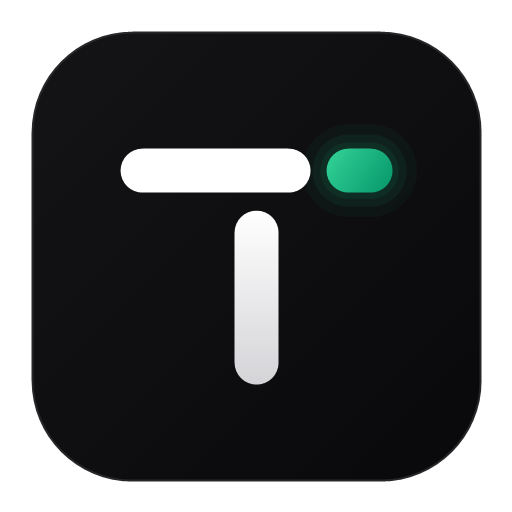
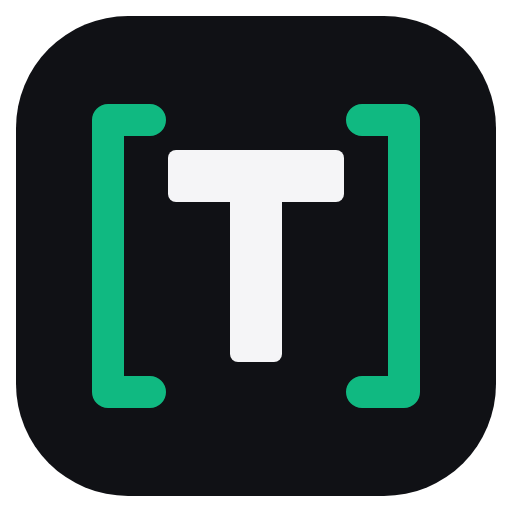
Typeset 1.0.15: Hark UI polish merge, save-toast position fix
- Full-width title bar with bracket T logo (new app icon assets)
- Save confirmations lift above the dirty bar via state class
- Actionable error copy, light theme alignment
- Kept 1.0.14 logic: toast variants and timers, Notify gating,
  badge switcher, key handling, contrast, backup flow

Changed region(s): [[0.1562, 0.1875, 0.8438, 0.8125], [0.0312, 0.0312, 0.9688, 0.9688]]

diff --git a/ui/index.html b/ui/index.html
@@ -61,10 +61,13 @@
 
   .app-window {
     width: 100%; height: 100vh;
-    display: flex; flex-direction: row;
+    display: flex; flex-direction: column;
     background: var(--bg);
     overflow: hidden;
   }
+
+  /* Body di bawah title bar: rail + kolom utama */
+  .app-body { flex: 1; min-height: 0; display: flex; flex-direction: row; }
 
   /* Rail kiri */
   .side-rail {
@@ -104,12 +107,14 @@
 
   .app-header {
     display: flex; align-items: center; justify-content: space-between;
-    padding: 4px 2px 2px;
+    height: 40px; padding: 0 8px 0 21px;
+    background: var(--panel2);
+    border-bottom: 1px solid var(--border);
     flex-shrink: 0;
     -webkit-user-select: none; user-select: none;
   }
   .brand { display: flex; align-items: center; gap: 8px; }
-  .brand-logo { width: 16px; height: 16px; border-radius: 4px; flex-shrink: 0; }
+  .brand-logo { width: 18px; height: 18px; border-radius: 4px; flex-shrink: 0; }
   .brand-title { font-size: 13px; font-weight: 600; letter-spacing: -0.01em; }
   .win-btns { display: flex; align-items: center; gap: 2px; }
   .win-btn {
@@ -126,12 +131,9 @@
     background: rgba(52, 211, 153, 0.12);
     border: 1px solid rgba(52, 211, 153, 0.35);
     border-radius: 9999px;
-    font-size: 11.5px; font-weight: 600; font-family: var(--sans);
+    font-size: 11.5px; font-weight: 600;
     color: #6EE7B7;
-    cursor: pointer;
   }
-  .active-badge:hover { background: rgba(52, 211, 153, 0.2); }
-  button.active-badge { appearance: none; -webkit-appearance: none; }
 
   .page-title { font-size: 20px; font-weight: 700; letter-spacing: -0.015em; line-height: 1.2; }
   .page-sub { font-size: 11px; color: var(--muted); margin-top: 1px; }
@@ -169,7 +171,7 @@
   .row + .row { border-top: 1px solid var(--border); }
   .row-label { display: flex; align-items: center; gap: 10px; min-width: 0; }
   .row-name { font-size: 12px; font-weight: 500; white-space: nowrap; }
-  .row.off .ctl { opacity: 0.4; pointer-events: none; }
+  .row.off .ctl { opacity: 0.35; pointer-events: none; }
   .row.off .row-name { color: var(--muted); }
   .ctl { display: flex; align-items: center; gap: 6px; }
 
@@ -341,7 +343,7 @@
     box-shadow: 0 2px 8px rgba(0, 0, 0, 0.25);
   }
   body.light .preview-paper { border: 1px solid var(--border2); box-shadow: 0 2px 8px rgba(0,0,0,.1); }
-  .preview-meta { font-size: 10px; color: var(--subtle); text-align: right; padding: 0 14px; margin-top: -2px; }
+  .preview-meta { font-size: 11px; color: var(--subtle); text-align: right; padding: 0 14px; margin-top: -2px; }
   .preview-text { width: 100%; word-break: break-word; }
 
   .tab-content { display: flex; flex-direction: column; gap: 8px; min-height: 0; }
@@ -349,26 +351,28 @@
   /* Toast + dirty bar + popover */
   .toast {
     position: fixed; bottom: 18px; left: 50%;
-    transform: translateX(-50%) translateY(80px); opacity: 0;
+    transform: translateX(-50%) translateY(12px); opacity: 0;
     display: inline-flex; align-items: center; gap: 8px;
-    background: #141416;
-    color: #f5f5f7;
-    border: 1px solid rgba(255, 255, 255, 0.08);
-    padding: 7px 16px; border-radius: 10px;
-    font-size: 12px; font-weight: 500; font-family: var(--sans);
-    box-shadow: 0 4px 6px -1px rgba(0, 0, 0, 0.5), 0 10px 24px -3px rgba(0, 0, 0, 0.7);
-    transition: opacity 0.25s ease, transform 0.25s ease; pointer-events: none; z-index: 100;
-    white-space: nowrap;
+    background: #141416; color: #f5f5f7;
+    border: 1px solid rgba(255, 255, 255, 0.10);
+    padding: 8px 16px 8px 14px; border-radius: 9999px;
+    font-size: 12px; font-weight: 600; font-family: var(--sans);
+    box-shadow: 0 12px 30px rgba(0, 0, 0, 0.45);
+    transition: opacity 0.18s ease, transform 0.18s ease, bottom 0.22s ease;
+    pointer-events: none; z-index: 100; white-space: nowrap;
   }
   .toast::before {
-    content: "";
-    width: 7px; height: 7px; border-radius: 50%;
+    content: ""; width: 7px; height: 7px; border-radius: 50%;
     background: var(--accent); flex-shrink: 0;
   }
-  .toast[data-kind="error"]::before { background: var(--danger); }
-  .toast[data-kind="info"]::before { background: var(--muted); }
+  .toast[data-kind="error"]::before { background: #f87171; }
+  .toast[data-kind="info"]::before { background: #a1a1aa; }
   body.light .toast { background: #1d1d1f; color: #fff; }
   .toast.show { opacity: 1; transform: translateX(-50%) translateY(0); }
+  .toast.lift { bottom: 64px; }
+  .kbd { font-family: var(--mono); font-size: 10px; color: var(--muted); border: 1px solid var(--border2); border-radius: 4px; padding: 0 4px; margin-left: 4px; }
+  body.light .btn-primary .kbd { color: #c7c7cc; border-color: #3a3a40; }
+  .btn-primary .kbd { color: #6e6e73; border-color: #c7c7cc; }
 
   .dirty-bar {
     position: absolute; bottom: 10px; left: 50%;
@@ -549,6 +553,18 @@
 <body>
 
 <main class="app-window" aria-label="Typeset Window">
+  <header class="app-header" id="appHeader" title="Drag to move">
+    <div class="brand">
+      <svg class="brand-logo" viewBox="0 0 512 512" aria-hidden="true"><rect x="16" y="16" width="480" height="480" rx="112" fill="#101115"/><path d="M150 120 H108 V392 H150 M362 120 H404 V392 H362" fill="none" stroke="#10b981" stroke-width="32" stroke-linejoin="round" stroke-linecap="round"/><rect x="168" y="150" width="176" height="52" rx="8" fill="#f5f5f7"/><rect x="230" y="150" width="52" height="212" rx="8" fill="#f5f5f7"/></svg>
+      <span class="brand-title">Typeset</span>
+      <span class="active-badge" id="badgeActivePreset"><svg width="13" height="13" viewBox="0 0 24 24" style="color:#6EE7B7;flex-shrink:0;" fill="currentColor"><polygon points="13 2 3 14 12 14 11 22 21 10 12 10 13 2"></polygon></svg><span>ACTIVE: <strong id="lblActivePreset">Laprak</strong></span></span>
+    </div>
+    <div class="win-btns">
+      <button type="button" class="win-btn" onclick="winMin()" title="Minimize" aria-label="Minimize"><svg viewBox="0 0 12 12" fill="none" stroke="currentColor" stroke-width="1.5" stroke-linecap="round"><line x1="1.5" y1="6" x2="10.5" y2="6"/></svg></button>
+      <button type="button" class="win-btn close" onclick="winClose()" title="Close" aria-label="Close"><svg viewBox="0 0 12 12" fill="none" stroke="currentColor" stroke-width="1.5" stroke-linecap="round"><line x1="2" y1="2" x2="10" y2="10"/><line x1="10" y1="2" x2="2" y2="10"/></svg></button>
+    </div>
+  </header>
+  <div class="app-body">
   <aside class="side-rail" aria-label="Navigation">
     <div class="rail-group">
       <button id="railBtnText" type="button" class="rail-btn active" onclick="switchTab('text')" title="Format Text" aria-label="Format Text" aria-selected="true">Aa</button>
@@ -565,17 +581,6 @@
   </aside>
 
   <div class="main-col">
-    <header class="app-header" id="appHeader" title="Drag to move">
-      <div class="brand">
-        <svg class="brand-logo" viewBox="0 0 512 512" aria-hidden="true"><rect x="32" y="32" width="448" height="448" rx="100" fill="#101115"/><rect x="120" y="148" width="190" height="44" rx="22" fill="#f5f5f7"/><rect x="326" y="148" width="66" height="44" rx="22" fill="#10b981"/><rect x="234" y="210" width="44" height="174" rx="22" fill="#d4d4d8"/></svg>
-        <span class="brand-title">Typeset</span>
-        <button type="button" class="active-badge" id="badgeActivePreset" onclick="openSwitcher()" title="Select preset (Win+Shift+F)"><svg width="13" height="13" viewBox="0 0 24 24" style="color:#6EE7B7;flex-shrink:0;" fill="currentColor"><polygon points="13 2 3 14 12 14 11 22 21 10 12 10 13 2"></polygon></svg><span>ACTIVE: <strong id="lblActivePreset">Laprak</strong></span></button>
-      </div>
-      <div class="win-btns">
-        <button type="button" class="win-btn" onclick="winMin()" title="Minimize" aria-label="Minimize"><svg viewBox="0 0 12 12" fill="none" stroke="currentColor" stroke-width="1.5" stroke-linecap="round"><line x1="1.5" y1="6" x2="10.5" y2="6"/></svg></button>
-        <button type="button" class="win-btn close" onclick="winClose()" title="Close" aria-label="Close"><svg viewBox="0 0 12 12" fill="none" stroke="currentColor" stroke-width="1.5" stroke-linecap="round"><line x1="2" y1="2" x2="10" y2="10"/><line x1="10" y1="2" x2="2" y2="10"/></svg></button>
-      </div>
-    </header>
 
     <div class="preset-card">
       <div class="preset-row" id="presetRowView">
@@ -854,13 +859,13 @@
       <div class="app-ver" id="appVer">Typeset v1.0.0 &bull; <button type="button" onclick="openChangelog()" title="View release notes on GitHub">View Changelog</button> &bull; <button type="button" onclick="manualCheck()" title="Check for updates now">Check for updates</button></div>
     </section>
 
-    <div id="toast" class="toast" role="status" aria-live="polite"><span id="toastMsg">Saved</span></div>
+    <div id="toast" class="toast" role="status" aria-live="polite"><span id="toastMsg"></span></div>
 
     <div id="dirtyBar" class="dirty-bar">
       <span class="dot"></span>
       <span>Unsaved changes</span>
-      <button type="button" class="btn btn-primary" onclick="saveCurrentPreset()" title="Save (Ctrl+S)">Save <kbd style="font-family:var(--mono); font-size:9px; opacity:0.7;">Ctrl+S</kbd></button>
-      <button type="button" class="btn" onclick="revertChanges()">Revert</button>
+      <button type="button" class="btn btn-primary" onclick="saveCurrentPreset()" title="Save (Ctrl+S)">Save<span class="kbd">Ctrl S</span></button>
+      <button type="button" class="btn" onclick="revertChanges()" title="Revert (Esc)">Revert<span class="kbd">Esc</span></button>
     </div>
 
     <div class="popover hidden" id="fontPop">
@@ -888,6 +893,7 @@
     </div>
 
   </div>
+</div>
 </main>
 
 <datalist id="fontList">
@@ -1178,10 +1184,7 @@ function dirtyPresetName() {
   return null;
 }
 function refreshDirty() {
-  var dirty = dirtyPresetName() !== null;
-  $('dirtyBar').classList.toggle('show', dirty);
-  var tst = $('toast');
-  if (tst) tst.style.bottom = dirty ? '70px' : '';
+  $('dirtyBar').classList.toggle('show', dirtyPresetName() !== null);
 }
 
 /* ---------- host bridge ---------- */
@@ -1193,14 +1196,18 @@ function sendToHost(payload) {
   document.title = 'AHK_MSG:' + JSON.stringify(payload) + '|~TS~|' + Date.now();
 }
 
+var toastTimer = null;
 function showToast(text, kind) {
-  $('toastMsg').innerText = text;
+  kind = kind || 'ok';
   var t = $('toast');
-  t.dataset.kind = kind || 'ok';
-  t.setAttribute('role', (kind === 'error') ? 'alert' : 'status');
+  $('toastMsg').innerText = text;
+  t.dataset.kind = kind;
+  t.setAttribute('role', kind === 'error' ? 'alert' : 'status');
+  var db = $('dirtyBar');
+  t.classList.toggle('lift', !!(db && db.classList.contains('show')));
   t.classList.add('show');
-  try { clearTimeout(t._timer); } catch (e) {}
-  t._timer = setTimeout(function() { t.classList.remove('show'); }, (kind === 'error') ? 3500 : 1800);
+  clearTimeout(toastTimer);
+  toastTimer = setTimeout(function() { t.classList.remove('show'); }, kind === 'error' ? 3500 : 1800);
 }
 
 /* ---------- tabs ---------- */
@@ -1806,7 +1813,7 @@ function saveCurrentPreset() {
   }
   commitCaptionInputs();
   snapshot(name);
-  $('dirtyBar').classList.remove('show');
+  refreshDirty();
   showToast('Preset "' + name + '" saved!');
   sendToHost({ action: 'savePreset', name: name, data: packPreset(name) });
 }
@@ -2264,13 +2271,6 @@ function finishRec(display, arrow) {
 /* ---------- global keys ---------- */
 
 document.addEventListener('keydown', function(e) {
-  if ((e.key === 's' || e.key === 'S') && (e.ctrlKey || e.metaKey) && !e.altKey) {
-    if (dirtyPresetName() !== null) {
-      e.preventDefault();
-      saveCurrentPreset();
-      return;
-    }
-  }
   if (e.key === 'Escape') {
     if (!$('palPop').classList.contains('hidden')) { closePalette(false); return; }
     if (!$('fontPop').classList.contains('hidden')) { closeFontPop(); return; }
@@ -2278,15 +2278,13 @@ document.addEventListener('keydown', function(e) {
     if (!$('resetPop').classList.contains('hidden')) { hideResetPop(); return; }
     if (!$('presetEditor').classList.contains('hidden')) { cancelAddPreset(); return; }
     if (recId) { stopRec(); return; }
-    if (!$('switchPop').classList.contains('hidden')) { hideSwitchPop(); return; }
-    if (dirtyPresetName() !== null) { revertChanges(); return; }
   }
   if (recId) {
     e.preventDefault();
     e.stopPropagation();
     var r = eventToDisplay(e, recId);
-    if (r.error) { showToast(r.error, 'error'); return; }
-    if (recId === 'heading' && !r.arrow) { showToast('Heading requires an arrow key', 'error'); return; }
+    if (r.error) { showToast(r.error); return; }
+    if (recId === 'heading' && !r.arrow) { showToast('Heading requires an arrow key'); return; }
     finishRec(r.display, r.arrow);
     return;
   }
@@ -2421,11 +2419,21 @@ function titlebarDrag(e) {
 
 function winMin() { sendToHost({ action: 'winMin' }); }
 function winClose() { sendToHost({ action: 'winClose' }); }
-function openSwitcher() { sendToHost({ action: 'openSwitcher' }); }
+
+document.addEventListener('keydown', function(e) {
+  var db = $('dirtyBar');
+  if (!db || !db.classList.contains('show')) return;
+  if ((e.ctrlKey || e.metaKey) && (e.key === 's' || e.key === 'S')) { e.preventDefault(); saveCurrentPreset(); }
+  else if (e.key === 'Escape' && !document.querySelector('.popover:not(.hidden)') && document.activeElement.tagName !== 'INPUT') { revertChanges(); }
+});
+
+function openSwitcherFromBadge(e) { e.stopPropagation(); sendToHost({ action: 'openSwitcher' }); }
 
 function wireTitlebar() {
   var h = $('appHeader');
   if (h) h.addEventListener('mousedown', titlebarDrag);
+  var b = $('badgeActivePreset');
+  if (b) { b.addEventListener('mousedown', function(e){ e.stopPropagation(); }); b.addEventListener('click', openSwitcherFromBadge); b.title = 'Switch preset (Win+Shift+F)'; b.style.cursor = 'pointer'; }
 }
 
 window.addEventListener('DOMContentLoaded', function() {
@@ -2498,7 +2506,6 @@ window.openChangelog = openChangelog;
 window.manualCheck = manualCheck;
 window.winMin = winMin;
 window.winClose = winClose;
-window.openSwitcher = openSwitcher;
 window.renderUpdate = renderUpdate;
 
 /* ---------- switch guard popover ---------- */

diff --git a/ui/data.js b/ui/data.js
@@ -1,8 +1,8 @@
 // Auto-generated configuration data from typeset.ini
 window.initialData = {
-  activePreset: "Kode Sisipan",
+  activePreset: "Laprak",
   theme: "dark",
-  appVersion: "1.0.14",
+  appVersion: "1.0.15",
   shortcuts: {
     Format: "Ctrl+Shift+F",
     Switcher: "Win+Shift+F",
@@ -14,7 +14,7 @@ window.initialData = {
   alwaysOnTop: false,
   lastUsed: {
     "TP": "20261009212255",
-    "Laprak": "20261009212257",
+    "Laprak": "20261009214122",
     "Kode Sisipan": "20261009212259",
     "Kode": "20261007150109"
   },

diff --git a/CHANGELOG.md b/CHANGELOG.md
@@ -3,6 +3,20 @@
 All notable changes to Typeset, newest first.
 Version numbers follow the in-app `APP_VERSION`.
 
+## [1.0.15]
+
+### Added
+
+- Full-width title bar with bracket [T] logo, active preset badge,
+  and window buttons; the side rail starts below it.
+- Toast lift: save confirmations sit above the dirty bar instead of
+  floating mid-window.
+
+### Changed
+
+- Error toasts say what to do ("Select text in Word first.").
+- Light theme contrast and toast style aligned with dark.
+
 ## [1.0.14]
 
 ### Added
